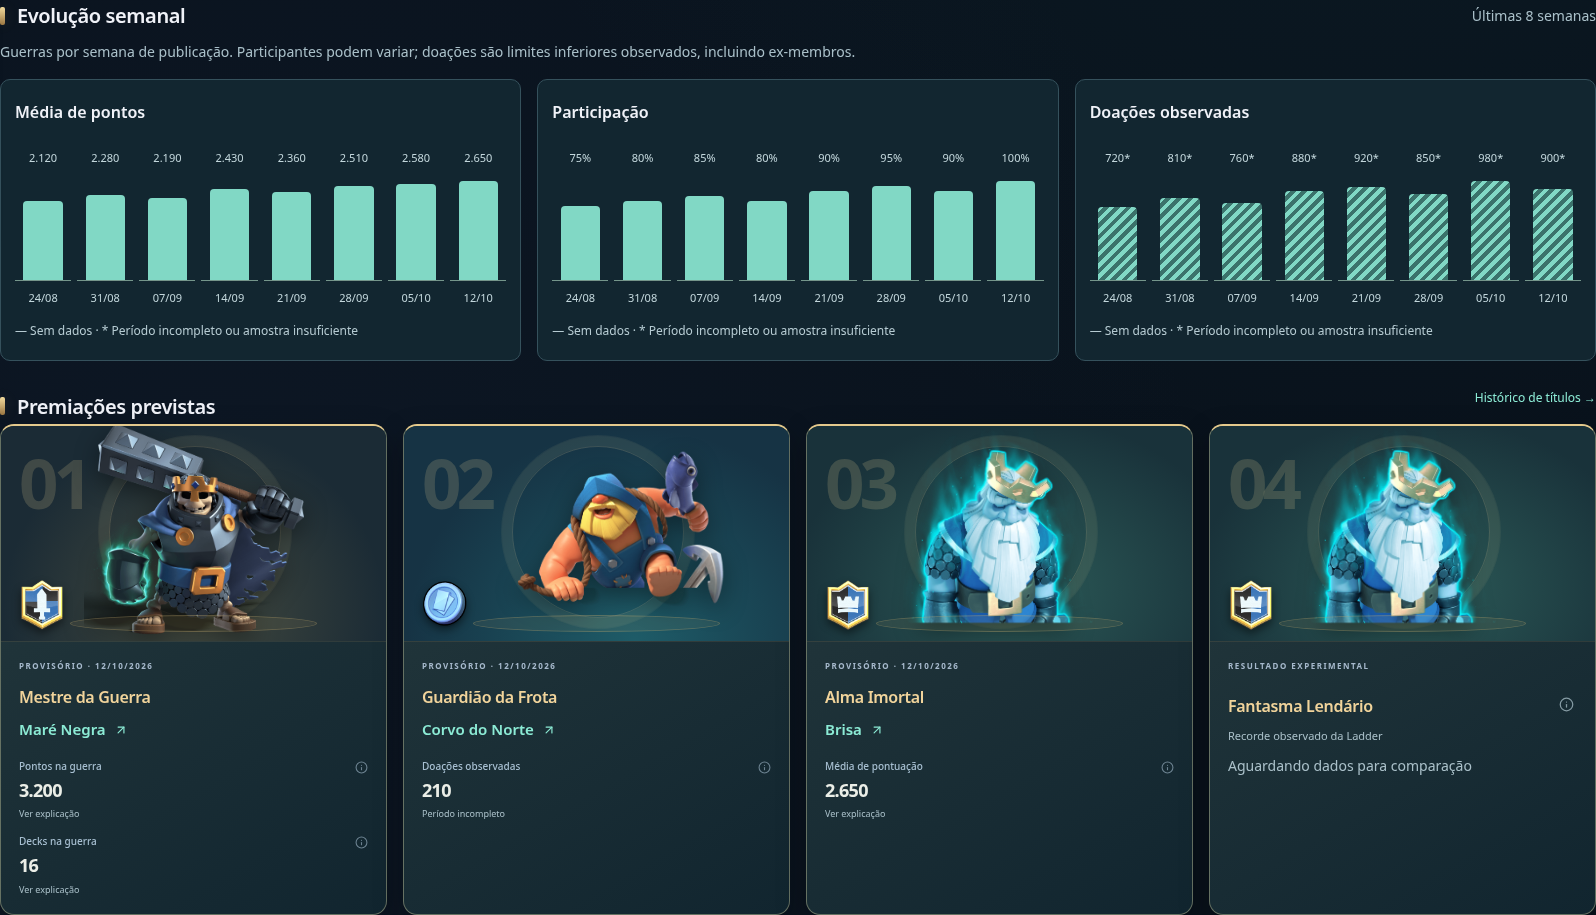
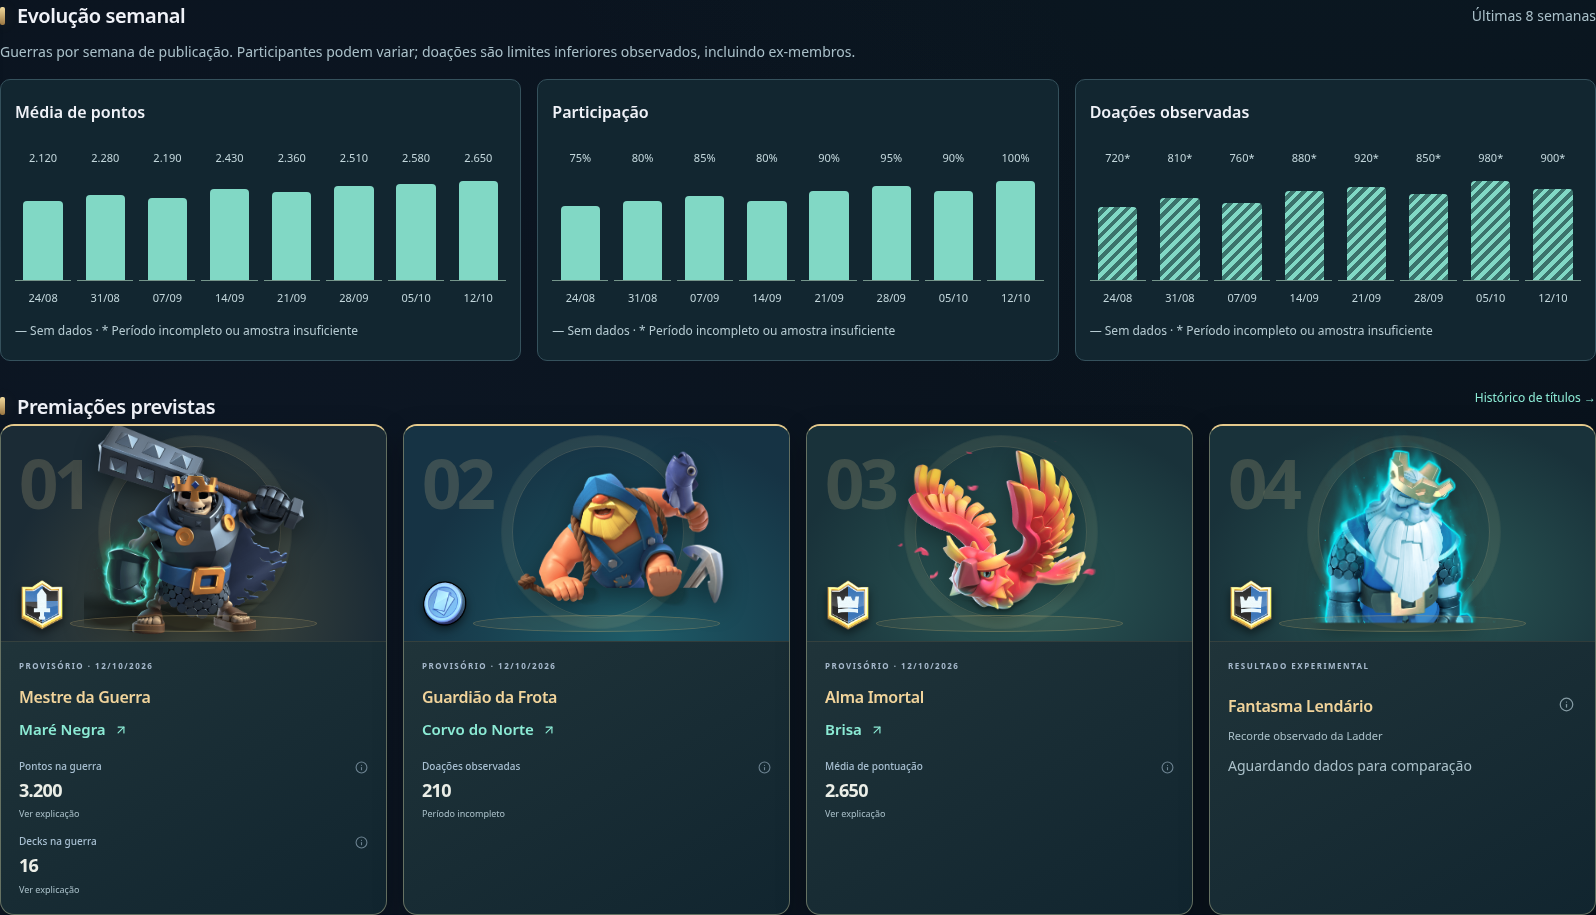
ui: usa Fênix no Alma Imortal e anima o Fantasma Lendário

Changed region(s): [[0.5526, 0.4896, 0.6754, 0.7038]]

diff --git a/frontend/e2e/legendary-award.spec.ts b/frontend/e2e/legendary-award.spec.ts
@@ -48,6 +48,16 @@ test("primeira coleta não inventa vencedor nem trata ausência como zero", asyn
   await expect(cards).toHaveCount(4);
   const boxes = await cards.evaluateAll(nodes => nodes.map(n => (n as HTMLElement).offsetTop));
   expect(new Set(boxes).size).toBe(1);
+  await expect(page.locator('.award-03:not(.legendary-card) .award-character')).toHaveAttribute('src', '/assets/royale/phoenix.png');
+  const ghost = page.locator('.legendary-card');
+  await expect(ghost.locator('.award-character')).toHaveAttribute('src', '/assets/royale/royal-ghost.png');
+  await ghost.hover({ position: { x: 30, y: 30 } });
+  await expect.poll(() => ghost.evaluate(el => el.style.getPropertyValue('--art-x'))).not.toBe('');
+  await page.mouse.move(0, 0);
+  await expect.poll(() => ghost.evaluate(el => el.style.getPropertyValue('--art-x'))).toBe('');
+  await page.emulateMedia({ reducedMotion: 'reduce' });
+  await ghost.hover({ position: { x: 30, y: 30 } });
+  expect(await ghost.evaluate(el => el.style.getPropertyValue('--art-x'))).toBe('');
 });
 test("mostra superação separada da evolução e consulta semanas anteriores", async ({ page }) => {
   await page.route("**/api/legendary-awards?*", async route => {

diff --git a/frontend/src/components/LegendaryAward.tsx b/frontend/src/components/LegendaryAward.tsx
@@ -4,7 +4,7 @@ import { Info, X } from "lucide-react";
 import { Link } from "react-router-dom";
 import { date, format, useApi } from "../lib/api";
 import { Badge, Empty, QueryState } from "./ui";
-import { art } from "./royale";
+import { art, artInteraction } from "./royale";
 
 export type LegendaryCandidate = {
   position: number | null;
@@ -73,8 +73,9 @@ export function LegendaryCard({ data }: { data?: LegendaryOverview }) {
   const winner = result?.candidates.find((c) => c.tag === cycle?.winnerTag);
   const source = cycle?.recordSource ?? data?.recordSource;
   return (
-    <article className="royale-award award-03 legendary-card">
+    <article className="royale-award award-03 legendary-card" {...artInteraction}>
       <div className="award-stage" aria-hidden="true">
+        <div className="art-light" />
         <span className="award-number">04</span>
         <img className="award-character" src={art("royal-ghost")} alt="" />
         <img className="award-badge" src={art("crown-emblem")} alt="" />

diff --git a/frontend/src/components/royale.tsx b/frontend/src/components/royale.tsx
@@ -24,7 +24,7 @@ function resetArt(event: PointerEvent<HTMLElement>) {
     event.currentTarget.style.removeProperty(key);
   }
 }
-const artInteraction = {
+export const artInteraction = {
   onPointerMove: followArt,
   onPointerLeave: resetArt,
   onPointerCancel: resetArt,
@@ -100,7 +100,7 @@ const awardArt: Record<
     number: "02",
   },
   ALMA_IMORTAL: {
-    character: "royal-ghost",
+    character: "phoenix",
     badge: "crown-emblem",
     label: "Média de pontuação",
     number: "03",

diff --git a/frontend/public/assets/royale/NOTICE.md b/frontend/public/assets/royale/NOTICE.md
@@ -19,6 +19,7 @@ visual não representa identificação oficial do clã nem dados fornecidos pela
 
 ## Ilustrações adicionadas ao tema visual
 
+- `phoenix.png`: [chr/phoenix_dl.png](https://github.com/RoyaleAPI/cr-api-assets/blob/b4530a1043b213ee2baf9c50a3d0d7fae22c2313/chr/phoenix_dl.png). Adicionada ao Alma Imortal em 25/11/2026, sem alterações.
 - `royal-ghost.png`: [chr/royal_ghost.png](https://github.com/RoyaleAPI/cr-api-assets/blob/b4530a1043b213ee2baf9c50a3d0d7fae22c2313/chr/royal_ghost.png).
 - `fisherman.png`: [chr/fisherman.png](https://github.com/RoyaleAPI/cr-api-assets/blob/b4530a1043b213ee2baf9c50a3d0d7fae22c2313/chr/fisherman.png).
 - `skeleton-king.png`: [chr_champions/champion_hires_skeleton_king.png](https://github.com/RoyaleAPI/cr-api-assets/blob/b4530a1043b213ee2baf9c50a3d0d7fae22c2313/chr_champions/champion_hires_skeleton_king.png).
